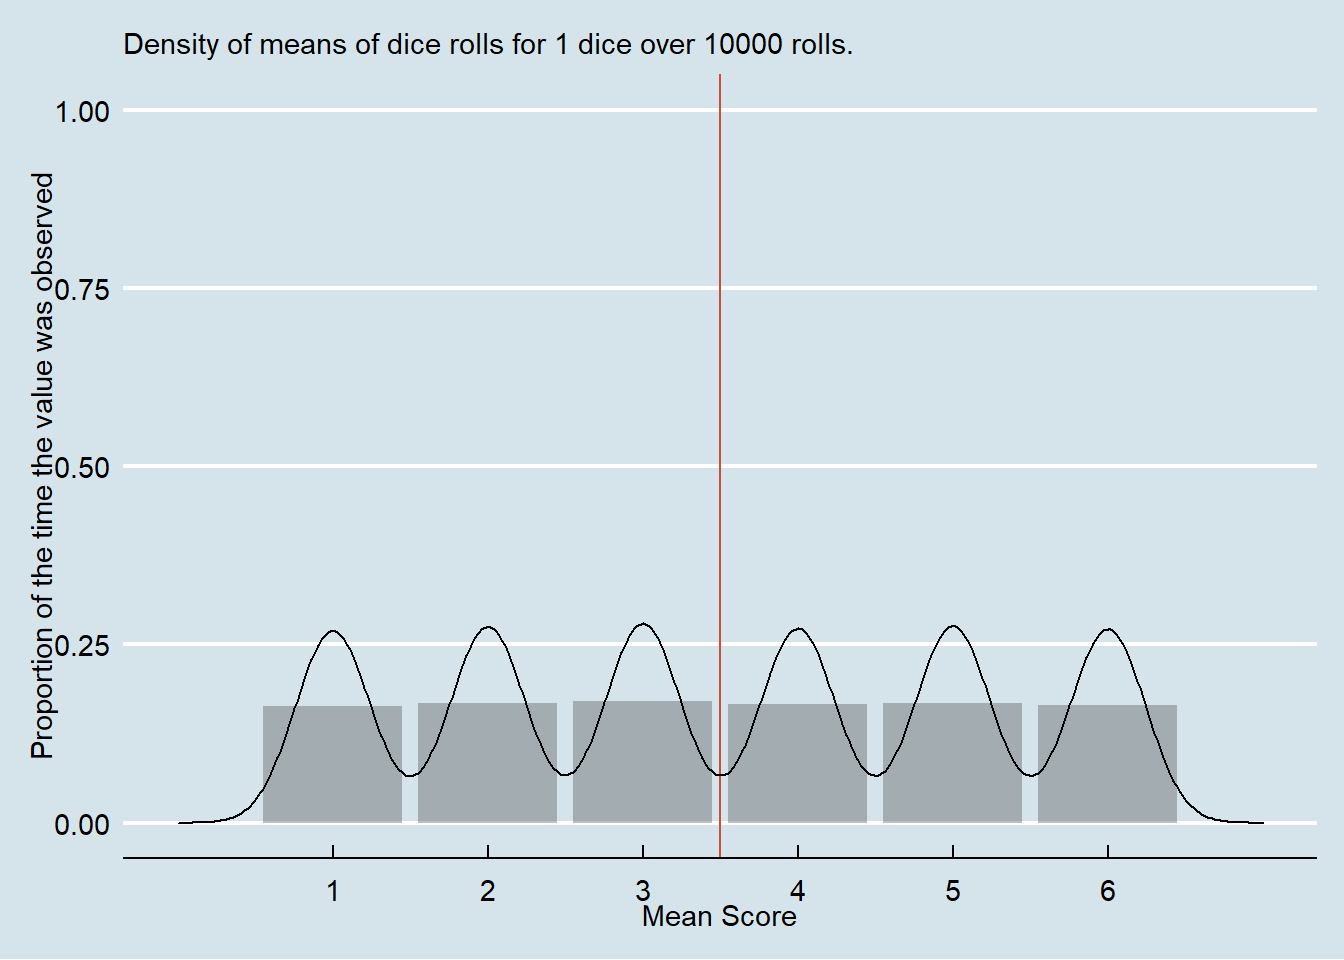
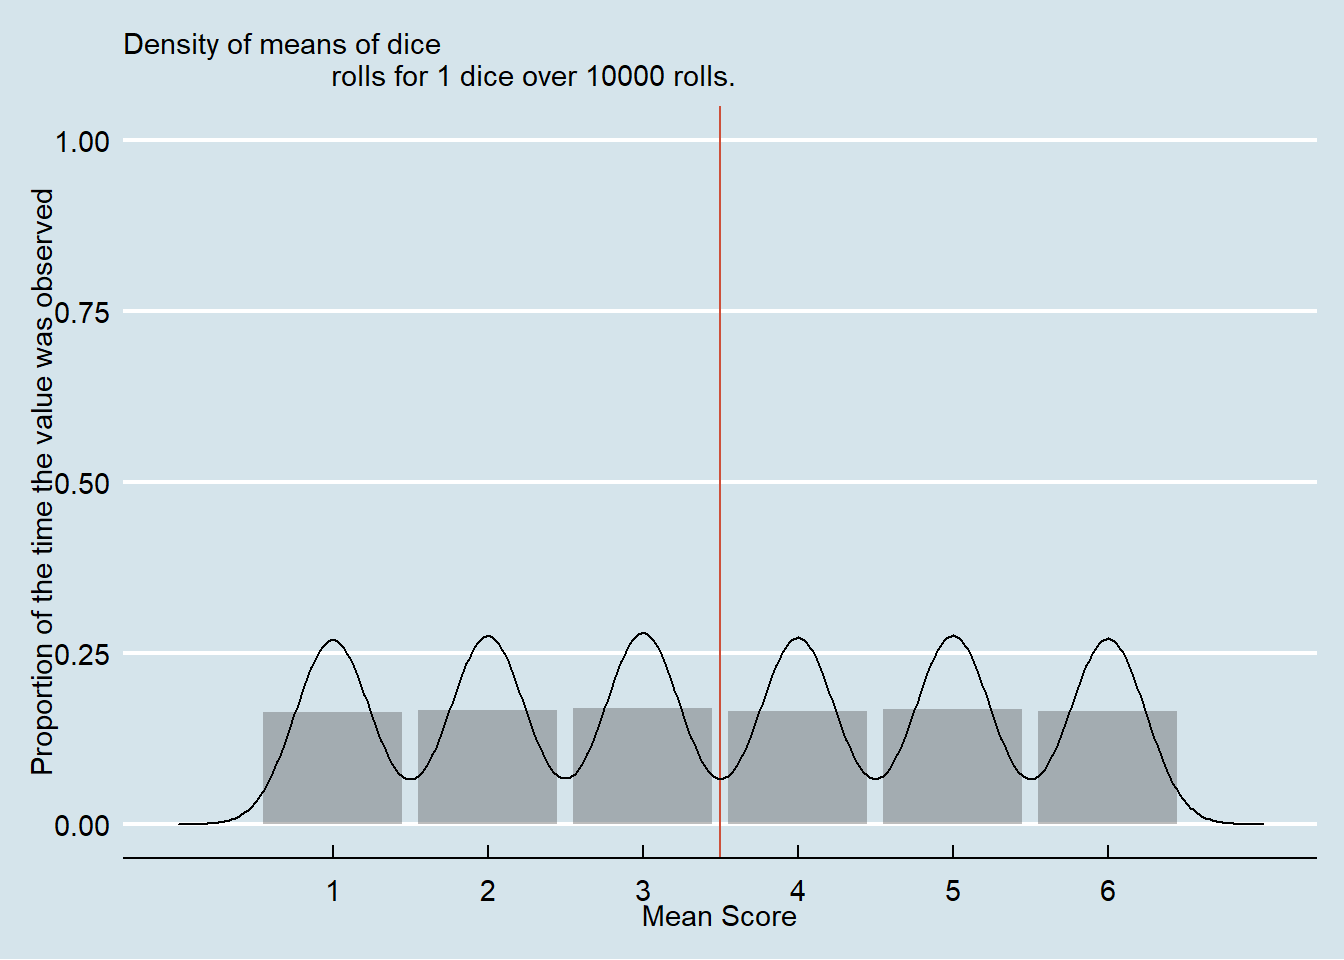
sgf

diff --git a/public/2020/08/demonstrating-the-central-limit-theorem-in-r/index.html b/public/2020/08/demonstrating-the-central-limit-theorem-in-r/index.html
@@ -363,7 +363,7 @@ print(mean_value)</code></pre>
 <p>Hopefully we're starting to get a feel for what this Central Limit Theorem is trying to tell us. From the above, we know that when we roll a die, the average score over the long run will be <code>3.5</code>. Even though <code>3.5</code> isn't an actual value that appears on the die's face, over the long run if we took the average of the values from multiple rolls, we'd get very close to <code>3.5</code>. Let's try:</p>
 <pre class="r"><code>number_of_rolls &lt;- 1000000 # Or, we could manually roll a die 1 million times. Nah, let&#39;s let the computer do it.
 mean(sample(1:6, number_of_rolls, replace = TRUE))</code></pre>
-<pre><code>## [1] 3.500909</code></pre>
+<pre><code>## [1] 3.497842</code></pre>
 <p>When we looked at the average score when we rolled two dice, we saw that getting a mean score of <code>3.5</code> was most likely. And this trend continues, as we add more dice. What's amazing here, is that the underlying distribution is <em>not normal</em>, it's <em>uniform</em>: there's a <span class="math inline">\(\frac{1}{6}\)</span> chance of seeing each face of a particular die. But the means of the samples <em>are</em> normally distributed. We'll see this effect in action in the next section, so don't stress too much if you don't fully grasp this yet.</p>
 <p>The fact that means are normally distributed lets us understand why we can test for differences in means between groups using t-tests (or Z-tests if we have enough information). Essentially, this is because we can ask if an observed mean is significantly different to what we'd expect to have seen under the null hypothesis. Under the null hypothesis, we make a statement about what the mean of a population is equal to. We then observe a sample mean. Since these sample means are normally distributed we can ask about the probability is of having seen our observed sample mean. If it's super unlikely to have seen that sample mean, we can reject our null (not accept the alternative, just reject the null).</p>
 </div>
@@ -382,21 +382,131 @@ roll &lt;- function(m, n){
   }) 
 }</code></pre>
 <p>We can call the function <code>roll()</code> to simulate rolling a single die <code>10000</code> times as follows: <code>roll(10000, 1)</code>. We can then draw a bar graph of our observed values:</p>
+<pre class="r"><code>n_ &lt;- 1
+m_ &lt;- 10000
+g &lt;- ggplot(roll(m = m_, n = n_),
+            mapping = aes(x = V1)) +
+  geom_vline(xintercept = 3.5, colour = &quot;tomato3&quot;) +
+  labs(
+    subtitle = str_interp(&#39;Density of means of dice
+                          rolls for ${n_} dice over ${m_} rolls.&#39;),
+    x = &#39;Mean Score&#39;,
+    y = &#39;Proportion of the time the value was observed&#39;
+  ) +
+  geom_bar(aes(y = ..prop..), alpha = 0.4) +
+  scale_x_continuous(
+    breaks = 1:6,
+    lim =  c(0, 7)
+  ) +
+  lims(
+    y = c(0, 1)
+  )
+
+g</code></pre>
 <p><img src="/post/2020-08-04-demonstrating-the-central-limit-theorem-in-r_files/figure-html/unnamed-chunk-8-1.png" width="672" /></p>
 <p>The above shouldn't be too surprising: we observed each value more or less the same proportion of the time.</p>
 <p>Let's slap a <code>geom_density()</code> on top of this:</p>
+<pre class="r"><code>g &lt;- g +
+  geom_density()
+
+g</code></pre>
 <p><img src="/post/2020-08-04-demonstrating-the-central-limit-theorem-in-r_files/figure-html/unnamed-chunk-9-1.png" width="672" /></p>
 <p>Don't worry about the density function not going all the way down to <code>0</code> in the space between the values <code>1, 2, 3, 4, 5</code> and <code>6</code>: this is just due to the curve being smoothed. Really, this is putting a continuous density function over something which should be discrete.</p>
 <p>Technically, we have just produced <code>10000</code> samples of size <code>1</code> (we rolled <code>1</code> die <code>10000</code> times). Let's produce <code>10000</code> samples of size <code>2</code> (roll <code>2</code> dice <code>10000</code> and plot the means of these samples):</p>
+<pre class="r"><code>n_ &lt;- 2
+m_ &lt;- 10000
+g &lt;- ggplot(roll(m = m_, n = n_),
+            mapping = aes(x = V1)) +
+  geom_vline(xintercept = 3.5, colour = &quot;tomato3&quot;) +
+  labs(
+    subtitle = str_interp(&#39;Density of means of dice
+                          rolls for ${n_} dice over ${m_} rolls.&#39;),
+    x = &#39;Mean Score&#39;,
+    y = &#39;Proportion of the time the value was observed&#39;
+  ) +
+  geom_bar(aes(y = ..prop..), alpha = 0.4) +
+  scale_x_continuous(
+    breaks = 1:6,
+    lim =  c(0, 7)
+  ) +
+  lims(
+    y = c(0, 1)
+  ) +
+  geom_density()
+
+g</code></pre>
 <p><img src="/post/2020-08-04-demonstrating-the-central-limit-theorem-in-r_files/figure-html/unnamed-chunk-10-1.png" width="672" /></p>
 <p>The above is starting to look a bit more bell-shaped. And it's centered around the vertical red line, which has the x-intercept of <code>3.5</code> - the true population mean.</p>
 <p>Let's increase our sample size to 4:</p>
+<pre class="r"><code>n_ &lt;- 4
+m_ &lt;- 10000
+g &lt;- ggplot(roll(m = m_, n = n_),
+            mapping = aes(x = V1)) +
+  geom_vline(xintercept = 3.5, colour = &quot;tomato3&quot;) +
+  labs(
+    subtitle = str_interp(&#39;Density of means of dice
+                          rolls for ${n_} dice over ${m_} rolls.&#39;),
+    x = &#39;Mean Score&#39;,
+    y = &#39;Proportion of the time the value was observed&#39;
+  ) +
+  geom_bar(aes(y = ..prop..), alpha = 0.4) +
+  scale_x_continuous(
+    breaks = 1:6,
+    lim =  c(0, 7)
+  ) +
+  lims(
+    y = c(0, 1)
+  ) +
+  geom_density()
+
+g</code></pre>
 <p><img src="/post/2020-08-04-demonstrating-the-central-limit-theorem-in-r_files/figure-html/unnamed-chunk-11-1.png" width="672" /></p>
 <p>Not only is the curve starting to look more normal, but the tails of the distribution are starting to flatten out: that is, the extreme mean values of <code>1</code> and <code>6</code> have become less probable.</p>
 <p>Let's increase the sample size to 20:</p>
+<pre class="r"><code>n_ &lt;- 20
+m_ &lt;- 10000
+g &lt;- ggplot(roll(m = m_, n = n_),
+            mapping = aes(x = V1)) +
+  geom_vline(xintercept = 3.5, colour = &quot;tomato3&quot;) +
+  labs(
+    subtitle = str_interp(&#39;Density of means of dice
+                          rolls for ${n_} dice over ${m_} rolls.&#39;),
+    x = &#39;Mean Score&#39;,
+    y = &#39;Proportion of the time the value was observed&#39;
+  ) +
+  geom_bar(aes(y = ..prop..), alpha = 0.4) +
+  scale_x_continuous(
+    breaks = 1:6,
+    lim =  c(0, 7)
+  ) +
+  lims(
+    y = c(0, 1.2)
+  ) +
+  geom_density()
+
+g</code></pre>
 <p><img src="/post/2020-08-04-demonstrating-the-central-limit-theorem-in-r_files/figure-html/unnamed-chunk-12-1.png" width="672" /></p>
 <p>Now we see the classic bell shaped curve. Notice that the peak of the distribution is taller than in the previous graph (the y-axis runs from <code>0</code> to <code>1.25</code> in this graph as opposed to <code>0</code> to <code>1</code> in the previous). The extreme mean values around <code>1</code> and <code>6</code> seem <em>very</em> unlikely. In fact getting a mean score around <code>2</code> or <code>5</code> also rarely happens. Seems like the distribution is getting &quot;tighter&quot; around the true mean value of <code>3.5</code> the larger our sample size grows.</p>
 <p>Let's go wild and simulate <code>10000</code> samples of <code>2000</code> dice being rolled! Hold on to your monocles!</p>
+<pre class="r"><code>n_ &lt;- 2000
+m_ &lt;- 10000
+g &lt;- ggplot(roll(m = m_, n = n_),
+            mapping = aes(x = V1)) +
+  geom_vline(xintercept = 3.5, colour = &quot;tomato3&quot;) +
+  labs(
+    subtitle = str_interp(&#39;Density of means of dice 
+                          rolls for ${n_} dice over ${m_} rolls.&#39;),
+    x = &#39;Mean Score&#39;,
+    y = &#39;Proportion of the time the value was observed&#39;
+  ) +
+  geom_bar(aes(y = ..prop..), alpha = 0.4) +
+  scale_x_continuous(
+    breaks = 1:6,
+    lim =  c(0, 7)
+  ) +
+  geom_density()
+
+g</code></pre>
 <p><img src="/post/2020-08-04-demonstrating-the-central-limit-theorem-in-r_files/figure-html/unnamed-chunk-13-1.png" width="672" /></p>
 <p>This is a very thin normal distribution. It's super tight around <code>3.5</code>. Doesn't this make sense though? It's hard to image rolling <code>2000</code> dice <code>10000</code> times. But let's imagine you and <code>1999</code> of your closest friends each rolled one die, only once, rather than the <code>10000</code> times required. Does it not seem likely that if you added up everyone's value and divided by <code>2000</code> that you'd get pretty close to <code>3.5</code>, the true population mean?</p>
 <p>Saying that the sample distribution is super tight around <code>3.5</code> can be expressed in a more mathematical way:</p>

diff --git a/content/post/2020-08-04-demonstrating-the-central-limit-theorem-in-r.html b/content/post/2020-08-04-demonstrating-the-central-limit-theorem-in-r.html
@@ -64,7 +64,7 @@ print(mean_value)</code></pre>
 <p>Hopefully we're starting to get a feel for what this Central Limit Theorem is trying to tell us. From the above, we know that when we roll a die, the average score over the long run will be <code>3.5</code>. Even though <code>3.5</code> isn't an actual value that appears on the die's face, over the long run if we took the average of the values from multiple rolls, we'd get very close to <code>3.5</code>. Let's try:</p>
 <pre class="r"><code>number_of_rolls &lt;- 1000000 # Or, we could manually roll a die 1 million times. Nah, let&#39;s let the computer do it.
 mean(sample(1:6, number_of_rolls, replace = TRUE))</code></pre>
-<pre><code>## [1] 3.500909</code></pre>
+<pre><code>## [1] 3.497842</code></pre>
 <p>When we looked at the average score when we rolled two dice, we saw that getting a mean score of <code>3.5</code> was most likely. And this trend continues, as we add more dice. What's amazing here, is that the underlying distribution is <em>not normal</em>, it's <em>uniform</em>: there's a <span class="math inline">\(\frac{1}{6}\)</span> chance of seeing each face of a particular die. But the means of the samples <em>are</em> normally distributed. We'll see this effect in action in the next section, so don't stress too much if you don't fully grasp this yet.</p>
 <p>The fact that means are normally distributed lets us understand why we can test for differences in means between groups using t-tests (or Z-tests if we have enough information). Essentially, this is because we can ask if an observed mean is significantly different to what we'd expect to have seen under the null hypothesis. Under the null hypothesis, we make a statement about what the mean of a population is equal to. We then observe a sample mean. Since these sample means are normally distributed we can ask about the probability is of having seen our observed sample mean. If it's super unlikely to have seen that sample mean, we can reject our null (not accept the alternative, just reject the null).</p>
 </div>
@@ -83,21 +83,131 @@ roll &lt;- function(m, n){
   }) 
 }</code></pre>
 <p>We can call the function <code>roll()</code> to simulate rolling a single die <code>10000</code> times as follows: <code>roll(10000, 1)</code>. We can then draw a bar graph of our observed values:</p>
+<pre class="r"><code>n_ &lt;- 1
+m_ &lt;- 10000
+g &lt;- ggplot(roll(m = m_, n = n_),
+            mapping = aes(x = V1)) +
+  geom_vline(xintercept = 3.5, colour = &quot;tomato3&quot;) +
+  labs(
+    subtitle = str_interp(&#39;Density of means of dice
+                          rolls for ${n_} dice over ${m_} rolls.&#39;),
+    x = &#39;Mean Score&#39;,
+    y = &#39;Proportion of the time the value was observed&#39;
+  ) +
+  geom_bar(aes(y = ..prop..), alpha = 0.4) +
+  scale_x_continuous(
+    breaks = 1:6,
+    lim =  c(0, 7)
+  ) +
+  lims(
+    y = c(0, 1)
+  )
+
+g</code></pre>
 <p><img src="/post/2020-08-04-demonstrating-the-central-limit-theorem-in-r_files/figure-html/unnamed-chunk-8-1.png" width="672" /></p>
 <p>The above shouldn't be too surprising: we observed each value more or less the same proportion of the time.</p>
 <p>Let's slap a <code>geom_density()</code> on top of this:</p>
+<pre class="r"><code>g &lt;- g +
+  geom_density()
+
+g</code></pre>
 <p><img src="/post/2020-08-04-demonstrating-the-central-limit-theorem-in-r_files/figure-html/unnamed-chunk-9-1.png" width="672" /></p>
 <p>Don't worry about the density function not going all the way down to <code>0</code> in the space between the values <code>1, 2, 3, 4, 5</code> and <code>6</code>: this is just due to the curve being smoothed. Really, this is putting a continuous density function over something which should be discrete.</p>
 <p>Technically, we have just produced <code>10000</code> samples of size <code>1</code> (we rolled <code>1</code> die <code>10000</code> times). Let's produce <code>10000</code> samples of size <code>2</code> (roll <code>2</code> dice <code>10000</code> and plot the means of these samples):</p>
+<pre class="r"><code>n_ &lt;- 2
+m_ &lt;- 10000
+g &lt;- ggplot(roll(m = m_, n = n_),
+            mapping = aes(x = V1)) +
+  geom_vline(xintercept = 3.5, colour = &quot;tomato3&quot;) +
+  labs(
+    subtitle = str_interp(&#39;Density of means of dice
+                          rolls for ${n_} dice over ${m_} rolls.&#39;),
+    x = &#39;Mean Score&#39;,
+    y = &#39;Proportion of the time the value was observed&#39;
+  ) +
+  geom_bar(aes(y = ..prop..), alpha = 0.4) +
+  scale_x_continuous(
+    breaks = 1:6,
+    lim =  c(0, 7)
+  ) +
+  lims(
+    y = c(0, 1)
+  ) +
+  geom_density()
+
+g</code></pre>
 <p><img src="/post/2020-08-04-demonstrating-the-central-limit-theorem-in-r_files/figure-html/unnamed-chunk-10-1.png" width="672" /></p>
 <p>The above is starting to look a bit more bell-shaped. And it's centered around the vertical red line, which has the x-intercept of <code>3.5</code> - the true population mean.</p>
 <p>Let's increase our sample size to 4:</p>
+<pre class="r"><code>n_ &lt;- 4
+m_ &lt;- 10000
+g &lt;- ggplot(roll(m = m_, n = n_),
+            mapping = aes(x = V1)) +
+  geom_vline(xintercept = 3.5, colour = &quot;tomato3&quot;) +
+  labs(
+    subtitle = str_interp(&#39;Density of means of dice
+                          rolls for ${n_} dice over ${m_} rolls.&#39;),
+    x = &#39;Mean Score&#39;,
+    y = &#39;Proportion of the time the value was observed&#39;
+  ) +
+  geom_bar(aes(y = ..prop..), alpha = 0.4) +
+  scale_x_continuous(
+    breaks = 1:6,
+    lim =  c(0, 7)
+  ) +
+  lims(
+    y = c(0, 1)
+  ) +
+  geom_density()
+
+g</code></pre>
 <p><img src="/post/2020-08-04-demonstrating-the-central-limit-theorem-in-r_files/figure-html/unnamed-chunk-11-1.png" width="672" /></p>
 <p>Not only is the curve starting to look more normal, but the tails of the distribution are starting to flatten out: that is, the extreme mean values of <code>1</code> and <code>6</code> have become less probable.</p>
 <p>Let's increase the sample size to 20:</p>
+<pre class="r"><code>n_ &lt;- 20
+m_ &lt;- 10000
+g &lt;- ggplot(roll(m = m_, n = n_),
+            mapping = aes(x = V1)) +
+  geom_vline(xintercept = 3.5, colour = &quot;tomato3&quot;) +
+  labs(
+    subtitle = str_interp(&#39;Density of means of dice
+                          rolls for ${n_} dice over ${m_} rolls.&#39;),
+    x = &#39;Mean Score&#39;,
+    y = &#39;Proportion of the time the value was observed&#39;
+  ) +
+  geom_bar(aes(y = ..prop..), alpha = 0.4) +
+  scale_x_continuous(
+    breaks = 1:6,
+    lim =  c(0, 7)
+  ) +
+  lims(
+    y = c(0, 1.2)
+  ) +
+  geom_density()
+
+g</code></pre>
 <p><img src="/post/2020-08-04-demonstrating-the-central-limit-theorem-in-r_files/figure-html/unnamed-chunk-12-1.png" width="672" /></p>
 <p>Now we see the classic bell shaped curve. Notice that the peak of the distribution is taller than in the previous graph (the y-axis runs from <code>0</code> to <code>1.25</code> in this graph as opposed to <code>0</code> to <code>1</code> in the previous). The extreme mean values around <code>1</code> and <code>6</code> seem <em>very</em> unlikely. In fact getting a mean score around <code>2</code> or <code>5</code> also rarely happens. Seems like the distribution is getting &quot;tighter&quot; around the true mean value of <code>3.5</code> the larger our sample size grows.</p>
 <p>Let's go wild and simulate <code>10000</code> samples of <code>2000</code> dice being rolled! Hold on to your monocles!</p>
+<pre class="r"><code>n_ &lt;- 2000
+m_ &lt;- 10000
+g &lt;- ggplot(roll(m = m_, n = n_),
+            mapping = aes(x = V1)) +
+  geom_vline(xintercept = 3.5, colour = &quot;tomato3&quot;) +
+  labs(
+    subtitle = str_interp(&#39;Density of means of dice 
+                          rolls for ${n_} dice over ${m_} rolls.&#39;),
+    x = &#39;Mean Score&#39;,
+    y = &#39;Proportion of the time the value was observed&#39;
+  ) +
+  geom_bar(aes(y = ..prop..), alpha = 0.4) +
+  scale_x_continuous(
+    breaks = 1:6,
+    lim =  c(0, 7)
+  ) +
+  geom_density()
+
+g</code></pre>
 <p><img src="/post/2020-08-04-demonstrating-the-central-limit-theorem-in-r_files/figure-html/unnamed-chunk-13-1.png" width="672" /></p>
 <p>This is a very thin normal distribution. It's super tight around <code>3.5</code>. Doesn't this make sense though? It's hard to image rolling <code>2000</code> dice <code>10000</code> times. But let's imagine you and <code>1999</code> of your closest friends each rolled one die, only once, rather than the <code>10000</code> times required. Does it not seem likely that if you added up everyone's value and divided by <code>2000</code> that you'd get pretty close to <code>3.5</code>, the true population mean?</p>
 <p>Saying that the sample distribution is super tight around <code>3.5</code> can be expressed in a more mathematical way:</p>

diff --git a/public/1/07/zulu-article-ucele-uthi-bazoboshwa-abasebenzi-bakahulumeni-abazobanjwa-benza-inkohlakalo/index.html b/public/1/07/zulu-article-ucele-uthi-bazoboshwa-abasebenzi-bakahulumeni-abazobanjwa-benza-inkohlakalo/index.html
@@ -325,6 +325,13 @@ Cele says they will be imprisoned, the workers of the government who will be cau
 <li>umyeni - husband</li>
 <li>mayelana - regarding</li>
 <li>inkohlakalo - corruption / doing something immoral</li>
+<li>kuhlomula - being rewarded with / having gotten</li>
+<li>ngokungemthetho  - that is not legal</li>
+<li>umthetho - rule / law / polcy</li>
+<li>imithetho - plural</li>
+<li>ethinta - relating to</li>
+<li>izinsiza - the assistances</li>
+<li>zokuzivikela - of the protection</li>
 </ul>
 
 <h1 id="explanations">explanations</h1>
@@ -350,12 +357,18 @@ Can also be used in conjunction with &ldquo;still&rdquo; - I&rsquo;m still at ho
 
 <ol>
 <li>Workers of the government who will be caught doing something immoral will be imprisoned</li>
+<li>Nkk Diko was given a tender with her husband of R125 million</li>
+<li>These reports were spread in the news</li>
+<li>Workers of the government found doing immoral activities will be impisoned</li>
 </ol>
 
 <h2 id="zulu">Zulu</h2>
 
 <ol>
 <li>Abasebenzi bahulumeni abazobanjwa benza inkohlakalo bazoboshwa.</li>
+<li>Nkk Diko ubenikwe nomyeni wakhe ithenda kaR125 Million</li>
+<li>Le mibiko isabalale kwizindaba</li>
+<li>Abasebenzi bakahulumeni abatholakala benza inkohlakalo bazoboshwa</li>
 </ol>
 
 <h1 id="questions-and-answers">Questions and Answers</h1>
@@ -367,6 +380,7 @@ Can also be used in conjunction with &ldquo;still&rdquo; - I&rsquo;m still at ho
 <li>What is Cele the minister of?</li>
 <li>What <em>has</em> Cele announced?</li>
 <li>Who will be imprisoned? (Who is it that will be imprisoned)</li>
+<li>Who is the speaker of the president?</li>
 </ol>
 
 <h2 id="zulu-1">Zulu</h2>
@@ -376,6 +390,7 @@ Can also be used in conjunction with &ldquo;still&rdquo; - I&rsquo;m still at ho
 <li>u-Cele ungqongqoshe wani?</li>
 <li>u-Cele usememezele yini?</li>
 <li>Obani abazoboshwa?</li>
+<li>Ubani ongumkhulumeni waMongameli?</li>
 </ol>
               
             </div>

diff --git a/content/post/post/zulu-stuff/2020-07-30-zulu-article-ucele-uthi-bazoboshwa-abasebenzi-bakahulumeni-abazobanjwa-benza-inkohlakalo.md b/content/post/post/zulu-stuff/2020-07-30-zulu-article-ucele-uthi-bazoboshwa-abasebenzi-bakahulumeni-abazobanjwa-benza-inkohlakalo.md
@@ -37,6 +37,13 @@ The Article: https://www.isolezwe.co.za/izindaba/ucele-uthi-bazoboshwa-abasebenz
 - umyeni - husband
 - mayelana - regarding
 - inkohlakalo - corruption / doing something immoral 
+- kuhlomula - being rewarded with / having gotten
+- ngokungemthetho  - that is not legal
+- umthetho - rule / law / polcy
+- imithetho - plural
+- ethinta - relating to
+- izinsiza - the assistances 
+- zokuzivikela - of the protection
 
 # explanations
 
@@ -61,11 +68,16 @@ useshonile - he has died
 ## English
 
 1. Workers of the government who will be caught doing something immoral will be imprisoned
+2. Nkk Diko was given a tender with her husband of R125 million
+3. These reports were spread in the news
+4. Workers of the government found doing immoral activities will be impisoned
 
 ## Zulu
 
-2. Abasebenzi bahulumeni abazobanjwa benza inkohlakalo bazoboshwa.
-
+1. Abasebenzi bahulumeni abazobanjwa benza inkohlakalo bazoboshwa.
+2. Nkk Diko ubenikwe nomyeni wakhe ithenda kaR125 Million
+3. Le mibiko isabalale kwizindaba
+4. Abasebenzi bakahulumeni abatholakala benza inkohlakalo bazoboshwa
 
 # Questions and Answers
 
@@ -75,6 +87,7 @@ useshonile - he has died
 2. What is Cele the minister of?
 3. What _has_ Cele announced?
 4. Who will be imprisoned? (Who is it that will be imprisoned)
+5. Who is the speaker of the president?
 
 ## Zulu
 
@@ -82,6 +95,7 @@ useshonile - he has died
 2. u-Cele ungqongqoshe wani?
 3. u-Cele usememezele yini?
 4. Obani abazoboshwa?
+5. Ubani ongumkhulumeni waMongameli?
 
 
 
